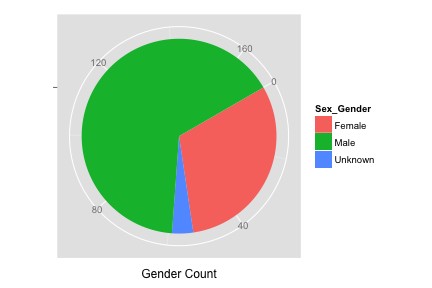
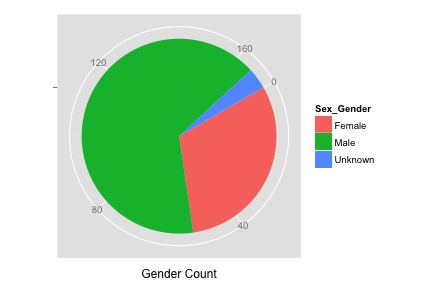
Re-rendered the top level PGP story.

Changed region(s): [[0.3912, 0.4688, 0.4514, 0.8125], [0.4213, 0.25, 0.6319, 0.4688]]

diff --git a/pgp/README.md b/pgp/README.md
@@ -27,8 +27,7 @@ Personal Genomes Project
 
 
 
-
-This data was recently loaded and there are not too many data stories yet.  Please help us add some!
+Note: the variants schema for the PGP data has not yet been updated to the current schema.  Some of the column names for common data may differ from those of your own variants data exported to BigQuery.
 
 Here is an initial query joining the variant data with the phenotypic data.  See the [phenotypes schema](https://bigquery.cloud.google.com/table/google.com:biggene:pgp.phenotypes?pli=1) for more detail.
 
@@ -57,16 +56,13 @@ GROUP BY
   Sex_Gender
 ```
 
-
-<!-- html table generated in R 3.0.2 by xtable 1.7-3 package -->
-<!-- Wed Jul  2 17:08:31 2014 -->
+<!-- html table generated in R 3.1.1 by xtable 1.7-3 package -->
+<!-- Fri Oct  3 08:42:36 2014 -->
 <TABLE border=1>
 <TR> <TH> Sex_Gender </TH> <TH> cnt </TH>  </TR>
-  <TR> <TD> Male </TD> <TD align="right"> 112 </TD> </TR>
   <TR> <TD> Female </TD> <TD align="right">  53 </TD> </TR>
+  <TR> <TD> Male </TD> <TD align="right"> 112 </TD> </TR>
   <TR> <TD>  </TD> <TD align="right">   6 </TD> </TR>
    </TABLE>
 
-
 <img src="figure/gender.png" title="plot of chunk gender" alt="plot of chunk gender" style="display: block; margin: auto;" />
-

diff --git a/platinumGenomes/README.md b/platinumGenomes/README.md
@@ -4,7 +4,7 @@ Platinum Genomes
 ### Additional Resources
 * [Schema](https://bigquery.cloud.google.com/table/genomics-public-data:platinum_genomes.variants?pli=1)
 * [Provenance](./provenance)
-  * variants table: See [Google Genomics Public Data](https://cloud.google.com/genomics/data/platinum-genomes) for provenance details for this data.
-  * sample information: use the [sample information](../1000genomes/provenance#source-sample-information) from 1,000 Genomes.
+  * 'variants' table: See [Google Genomics Public Data](https://cloud.google.com/genomics/data/platinum-genomes) for provenance details for this data.
+  * 'sample_info' table: use the [sample information](../1000genomes/provenance#source-sample-information) from 1,000 Genomes.
 
 This data was recently loaded and there are not too many data stories yet. Please help us add some!
